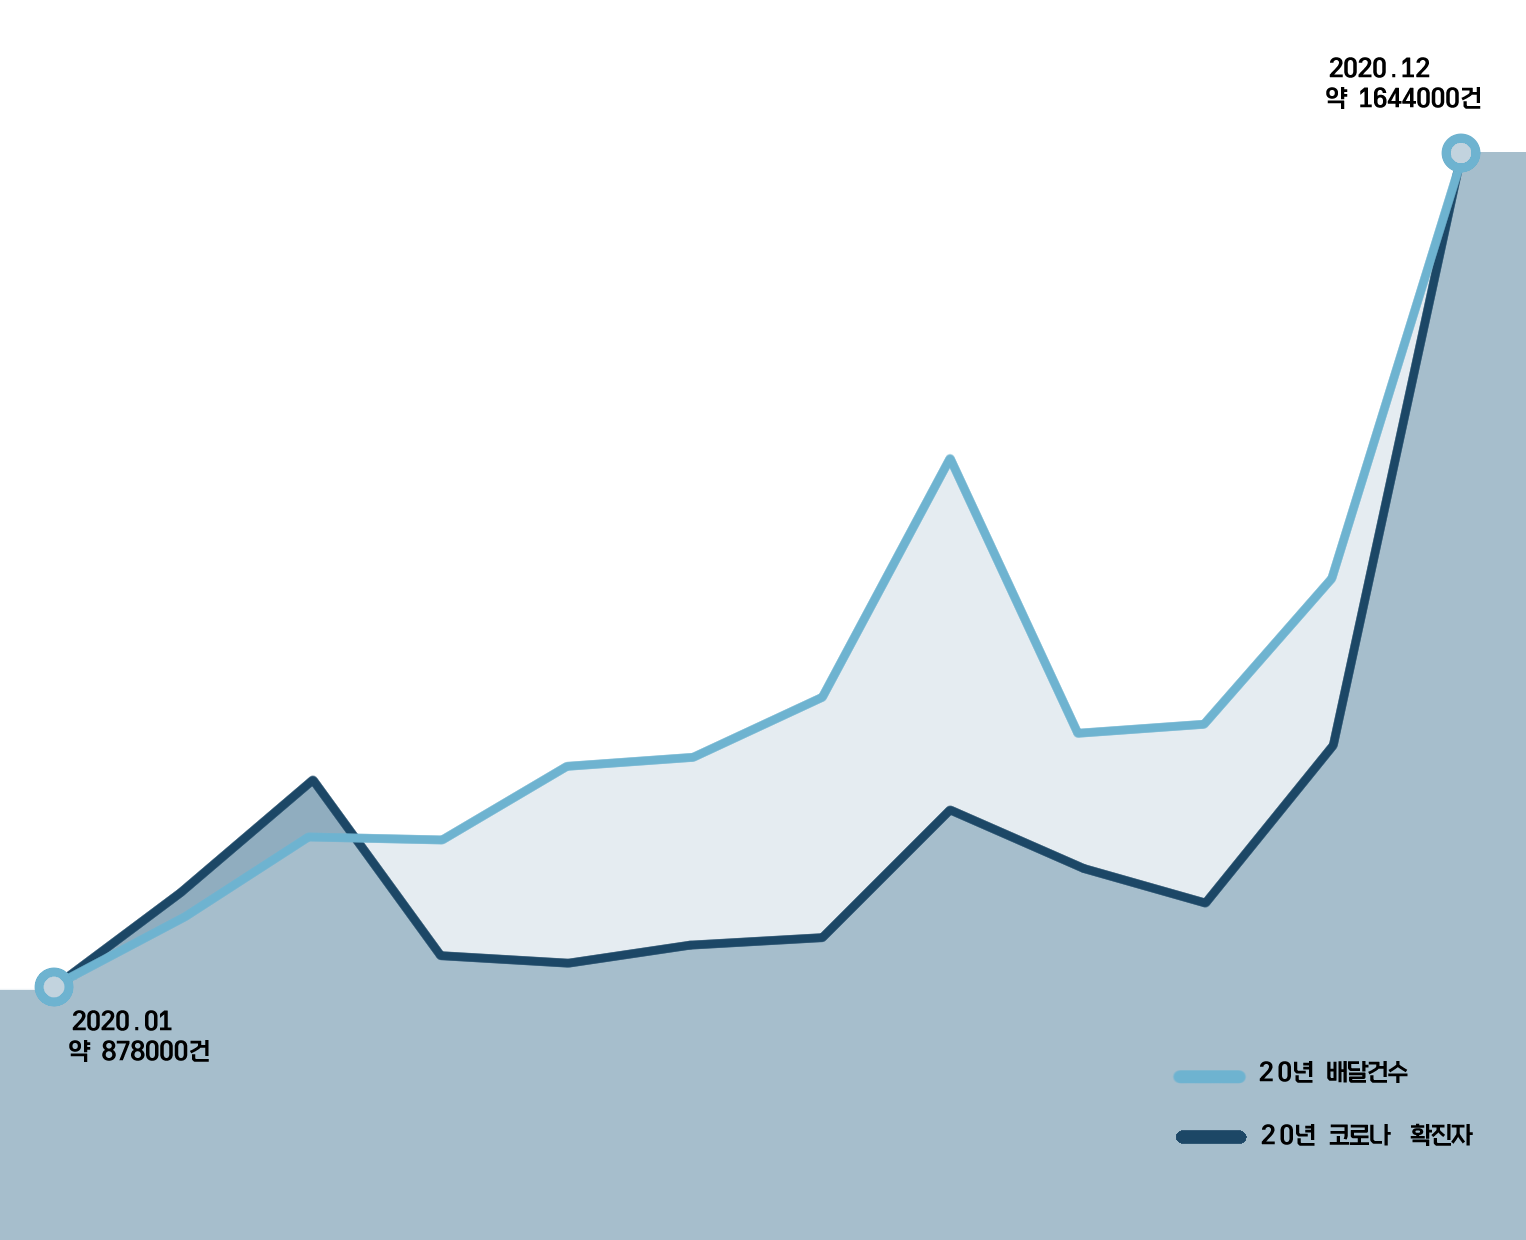
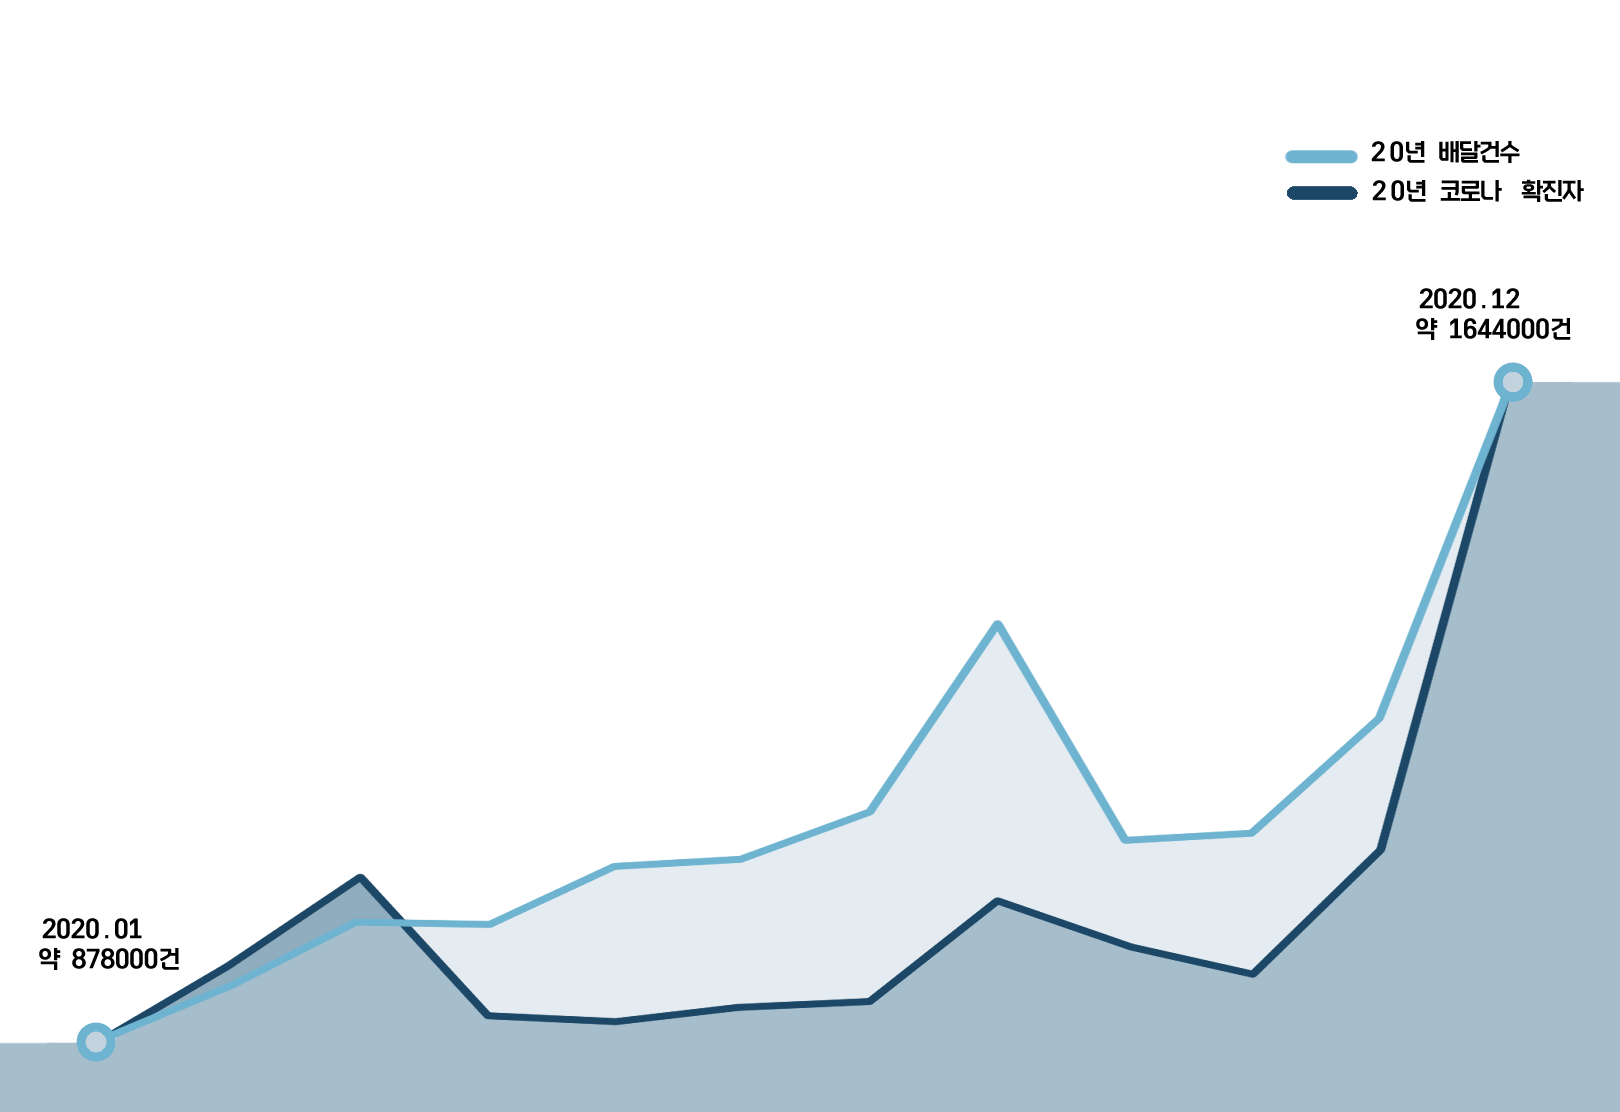
#style: 모바일 뷰 적용

Changed region(s): [[0.0, 0.0306, 1.0, 0.9478], [0.924, 0.8867, 0.9548, 0.9478]]

diff --git a/frontend/src/pages/MainPage.js b/frontend/src/pages/MainPage.js
@@ -7,17 +7,31 @@ import { GraphBox } from "../components/GraphBox";
 import { Reference } from "../components/Reference";
 
 const AccumulateBox = styled.div`
-    width: 20vw;
+    width: 10vw;
     display: flex;
-    font-size: 1.2rem;
     flex-direction: column;
-    box-sizing: border-box;
+    font-size: 2.5rem;
+    font-weight: 900;
     margin-left: auto;
     margin-right: 5vw;
     margin-top: 5vh;
-    background-color: #6EB3D0;
-    color: white;
+    color: #6EB3D0;
     text-align: center;
+    text-shadow: 1px 2px 2px black;
+
+    @media only screen and (max-width:768px){
+        width: 100vw;
+        height: 15vh;
+        font-size: 1.5rem;
+        justify-content: center;
+        align-items: center;
+    };
+
+    @media only screen and (min-width:768px) and (max-width:1600px){
+        width: 20vw;
+        font-size: 2rem;
+    }
+
 `
 const Main = styled.div`
     display: flex;
@@ -29,32 +43,63 @@ const MainHeader = styled.div`
     height:100vh;
     box-sizing: border-box;
     padding-bottom: 30vh;
-    margin: 30vh 0;
+
+    @media only screen and (max-width:768px){
+        width: 100vw;
+    };
+
 `
 const Letter = styled.div`
     width: 30vw;
     height:100%;
     margin:0 auto;
     box-shadow: 1vh 2vh 4vh rgb(100 100 100 / 30%);
+
+    @media only screen and (max-width:768px){
+        width: 80vw;
+    };
+
+    @media only screen and (min-width:768px) and (max-width:1600px){
+        width: 40vw;
+    }
 `
 const LetterContent = styled.div`
     font-family:Seulvely;
     font-size: 2.2rem;
     width:100%;
     height:70%;
-    padding-top:40px;
+    padding-top:10vh;
+    box-sizing: border-box;
+
+    @media only screen and (max-width:768px){
+        font-size: 1.5rem;
+    };
+
 `
 const Writer= styled.div`
     font-family:Seulvely;
     font-size:2rem;
     width:100%;
     height:30%;
+    padding-top: 5vh;
+    box-sizing: border-box;
+
+    @media only screen and (max-width:768px){
+        font-size: 1.5rem;
+    };
 `
 const SadBear = styled.img`
     width: 20vw;
     position:absolute;
-    bottom:0;
+    bottom:10vh;
     right: 10vw;
+
+    @media only screen and (max-width:768px){
+        height: 30vh;
+        width: auto;
+        right: 0;
+    };
+
 `
 const MainBody = styled.div`
     font-size: 1.5em;
@@ -76,23 +121,39 @@ const Narration = styled.div`
     h2 {
         margin-top: 10vh;
     }
+
+    @media only screen and (max-width:768px){
+        font-size: 0.8rem;
+        padding-top: 20vh;
+        height: ${props => props.first ? "50vh" : "140vh"};
+    };
+
+
 `
 const Analysis = styled.div`
-    height: 70vw;
+    height: 69vw;
     width: 100%;
     box-sizing: border-box;
     position: relative;
-    margin-top: 10vh;
+    @media only screen and (max-width:768px){
+        height: 50vh;
+    };
 `
 const ContentsHeader = styled.div`
     width: 80%;
     margin: 0 auto;
     display: flex;
+    padding-top: ${props => props.article ? "": "10vh"}; ;
     flex-direction: ${props => props.article ? "": "column"};
     justify-content: ${props => props.article ? "space-between": "" };
     div + div {
         margin-top: ${props => props.article ? "": "7vh" };
     }
+    @media only screen and (max-width:768px){
+        width: 90%;
+        padding-top: 0px;
+        flex-direction: column;
+    };
 `
 const Title = styled.div`
     font-size: 2.3em;
@@ -100,11 +161,20 @@ const Title = styled.div`
     text-align: left;
     text-shadow: 3px 2px 5px white;
     line-height: 110%;
+
+    @media only screen and (max-width:768px){
+        font-size: 1.2rem;
+        text-align: center;
+    };
 `
 const SubTitle = styled.div`
     font-size: 0.9em;
     font-weight: 600;
     text-align: left;
+    @media only screen and (max-width:768px){
+        visibility: hidden;
+        height: 0px;
+    };
 `
 const Article = styled.div`
     height: 190vh;
@@ -113,12 +183,24 @@ const Article = styled.div`
     padding-top: 10vh;
     background-color: #A6BECC;
     position: relative;
+    @media only screen and (max-width:768px){
+        height: 90vh;
+    };
 `
 const GraphBoxWrap = styled.div`
     width: 60vw;
     height:15vh;
     margin-left: 20vh;
     margin-top: 15vh;
+    @media only screen and (max-width:768px){
+        width: 90vw;
+        margin: 10vh auto 0;
+        height: 60vh;
+        >p {
+            margin-top: 2vh;
+            font-size: 1rem;
+        }
+    };
 `
 const SpeechBubble = styled.div`
     width: 30%;
@@ -163,6 +245,14 @@ const SpeechBubble = styled.div`
         border-width: 17px;
         margin-left: -17px;
     };
+
+    @media only screen and (max-width:768px){
+        width: 60%;
+        height: 15vh;
+        font-size: 0.3rem;
+        padding-top: 4vh;
+    }
+    
 `
 const GukgomQuestion =styled.div`
     display: flex;
@@ -171,8 +261,12 @@ const GukgomQuestion =styled.div`
     margin-top: 15vh;
 `
 const MainFooter = styled.div`
-    height: 120vh;
+    height: 80vh;
     background-color: white;
+    @media only screen and (max-width:768px){
+        height: 60vh;
+    }
+    
 `
 const TestButton = styled.button`
     height: 10vh;
@@ -184,6 +278,12 @@ const TestButton = styled.button`
     box-shadow: 1vh 1vh 3vh rgb(100 100 100 / 30%);
     color: white;
     cursor: pointer;
+    @media only screen and (max-width:768px){
+        margin-top: 5vh;
+        width: 60vw;
+        height: 10vh;
+    }
+    
 `
 
 function MainPage() {
@@ -200,8 +300,8 @@ function MainPage() {
         <div className='mainpage'>
             <NavBar />
             <AccumulateBox>
-                    <h2>쓰랭 누적 사용자 수</h2>
-                    <p>{userCnt}명</p>
+                    <div>참여자 수</div>
+                    <div>{userCnt}명</div>
             </AccumulateBox>
             <Main>
                 <MainHeader>
@@ -240,7 +340,7 @@ function MainPage() {
                                 </SubTitle>
                             </Fade>
                         </ContentsHeader>
-                        <img src="images/그래프4.png" 
+                        <img src="images/그래프.png" 
                              alt="코로나19 확진자수 배달 건수 증가량"
                              style={{width:"100%", position:"absolute", bottom:"0",left:"0"}}/>
                     </Analysis>
@@ -267,6 +367,7 @@ function MainPage() {
                                 <p style={{textAlign:"end"}}>(단위: 톤/일)</p>
                             </GraphBoxWrap>
                         </Fade>
+
                         <img src="images/쓰레기더미.png"
                              alt="쓰레기통 주변에 버려진 쓰레기"
                              style={{width:"40%", position:"absolute", bottom:"-50px",right:"0"}}/>

diff --git a/frontend/src/components/Accrodain.js b/frontend/src/components/Accrodain.js
@@ -34,15 +34,6 @@ export function Accrodain(props){
         </Container>
     )
 }
-const ContentsWrapper = styled.div`
-    height: 0;
-    width: 100%;
-    overflow: hidden;
-    transition: height 0.35s ease;
-`
-const Contents= styled.div`
-    padding: 4px 8px;
-`
 const Container = styled.div`
     display: flex;
     position:relative;
@@ -57,9 +48,24 @@ const Header = styled.div`
     margin: 0 2vw  0 0.5vw;
     font-size: 1rem;
     font-weight: 700;
+    @media only screen and (max-width:768px){
+        font-size: 0.8rem;
+    }
 `
 const Button = styled.div`
-    top: 0.5vh;
-    right: 0.5vw;
+    top: 0.1vh;
+    right: 3vw;
     position: absolute;
+`
+const ContentsWrapper = styled.div`
+    height: 0;
+    width: 100%;
+    overflow: hidden;
+    transition: height 0.35s ease;
+`
+const Contents= styled.div`
+    padding: 4px 8px;
+    @media only screen and (max-width:768px){
+        font-size: 0.2rem;
+    }
 `

diff --git a/frontend/src/components/GraphBox.js b/frontend/src/components/GraphBox.js
@@ -11,6 +11,15 @@ const Graph = styled.div`
     > div {
         padding-left: 5vh;
     }
+    @media only screen and (max-width:768px){
+        height: 10vh;
+        > div {
+            padding-left: 5vw;
+        }
+        > p {
+            font-size: 1rem;
+        }
+    };
 `
 const Bar = styled.div`
     height: 5vh;
@@ -29,6 +38,22 @@ const Bar = styled.div`
         box-sizing: border-box;
         padding: 0 10px;
         color: white;
+    }
+
+    @media only screen and (max-width:768px){
+        height: 3vh;
+        width: 60vw;
+        margin-top: 2vh;
+        span {
+            display: block;
+            height: 3vh;
+            line-height: 3vh;
+            border-radius: 40px;
+            box-sizing: border-box;
+            padding: 0 10px;
+            color: white;
+            font-size: 1rem;
+        }
     }
 `
 

diff --git a/frontend/src/components/Reference.js b/frontend/src/components/Reference.js
@@ -19,6 +19,11 @@ const Refer = styled.div`
     div + div{
         margin-top: 1vh;
     }
+    @media only screen and (max-width:768px){
+        margin: 10vh auto;
+        width: 90vw;
+        p { font-size: 0.2rem;}
+    }
 `
 const Title = styled.div`
     margin-bottom: 2vh;
@@ -26,6 +31,10 @@ const Title = styled.div`
     font-family: Elice_Regular;
     font-size: 1.4rem;
     font-weight: 700;
+
+    @media only screen and (max-width:768px){
+        font-size: 1rem;
+    }
 `
 
 
